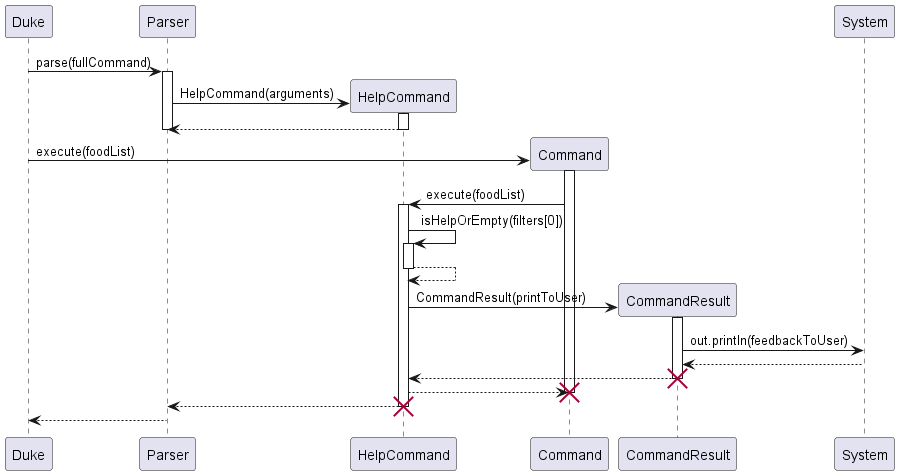
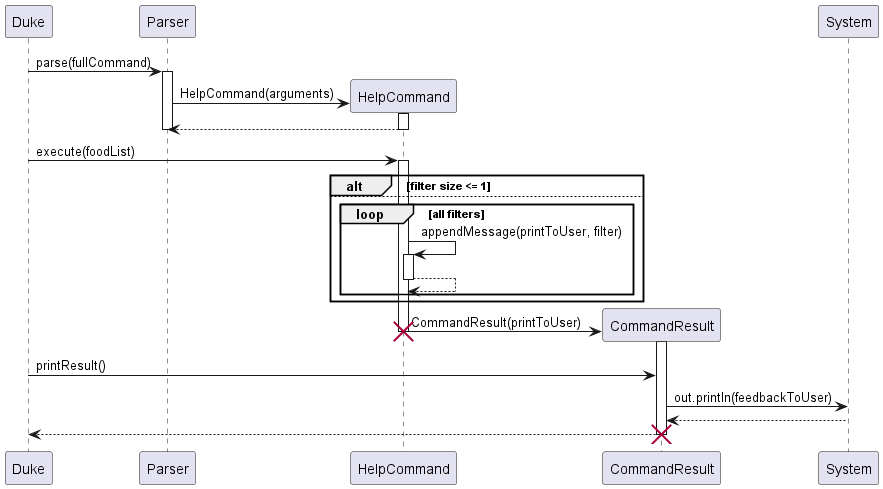
Update developer guide for HelpCommand

diff --git a/docs/DeveloperGuide.md b/docs/DeveloperGuide.md
@@ -96,12 +96,18 @@ The help command is implemented using a `HelpCommand` class which utilizes `COMM
 attributes of all other commands within the `commands` package. 
 
 The help command is implemented as follows:
-1. New `HelpCommand` object is created by passing in a String containing arguments from `Parser`.
+1. When `Duke` reads the user input, it calls the method `parse` from the `Parser` class.
+2. The `parse` method process which command word is being queried and calls the constructor class based 
+on the command word.
+3. In the case where `help` is the command word, a new `HelpCommand` object is created with the rest of the user input 
+being the arguments for the constructor.
 2. The constructor `HelpCommand` will split the arguments based on the `--` regex and store them in an array of
 strings called `filters`.
-3. The method `execute` of `Command` class will then be called all the way from `Duke` with `filters` as its argument. 
-4. This method decides what to append to the string `printToUser` as specified by the `filters`. 
-5. After looping through all the `filters`, this method will return an object called `CommandResult` and pass
+3. The method `execute` of `Command` class will then be called all the way from `Duke` which will be overriden by the 
+same method in `HelpCommand`.
+4. This method calls the private method `appendMessage` which decides what to append to the string `printToUser` as 
+specified by `filter`. 
+5. After looping through all the `filter`, this method will return an object called `CommandResult` and pass
 `printToUser` as its argument.
 6. `Duke` will then call `printResult` method from `CommandResult` which will print the necessary message.
 
